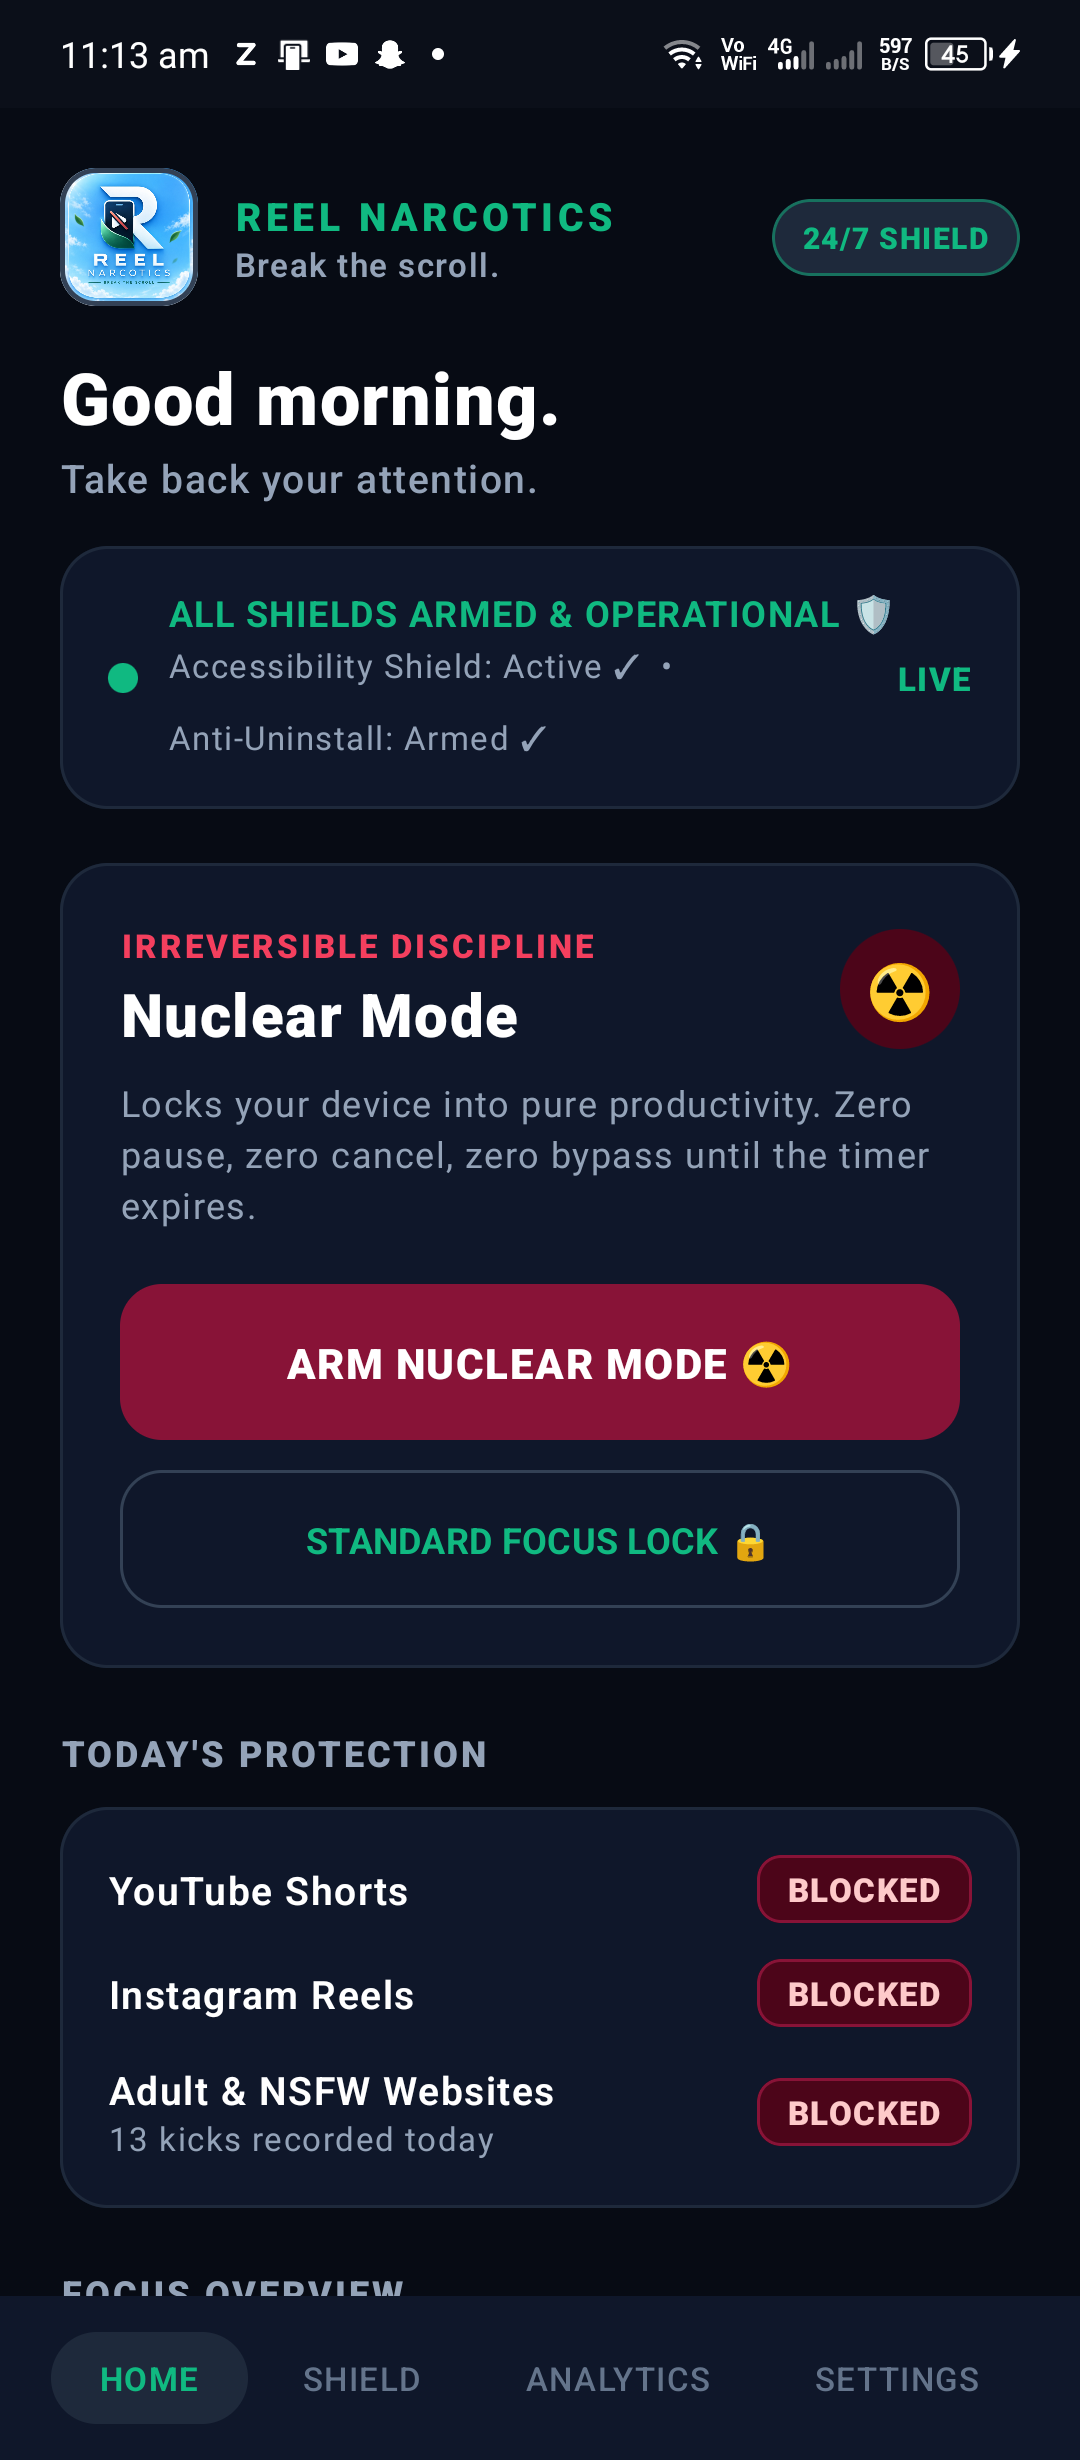
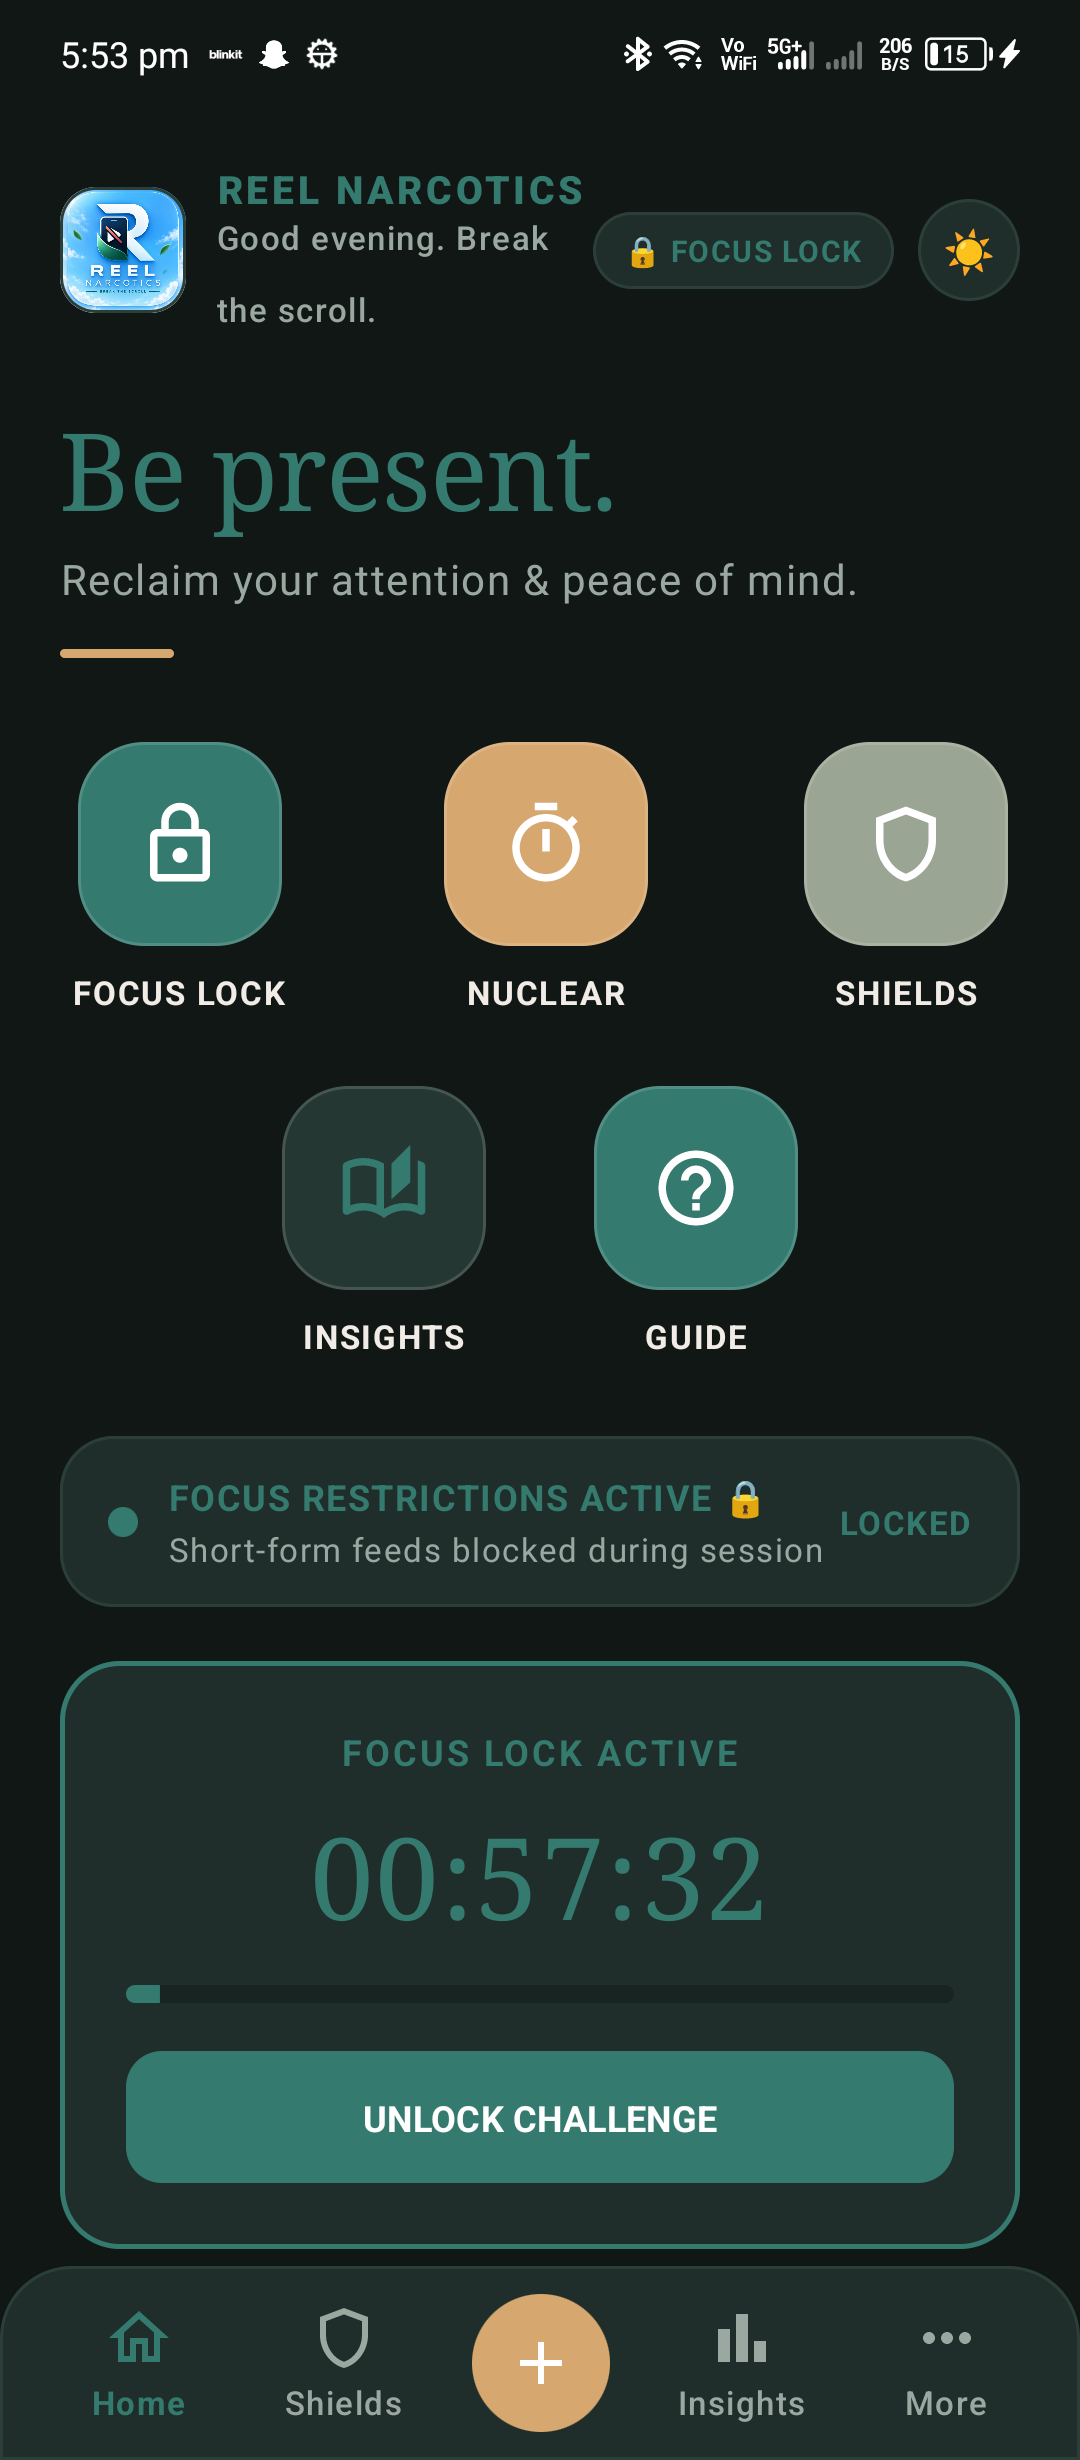
docs: add real device UI showcase screenshots and update README with Multi-OEM architecture

diff --git a/README.md b/README.md
@@ -1,90 +1,106 @@
-# Reel Narcotics ⚡
-> Production-grade, offline-first Android digital-wellbeing and dopamine-detox application.
-> Surgically intercepts addictive short-form feeds (YouTube Shorts, Instagram Reels, Snapchat Spotlight, Facebook Reels, TikTok) and Adult/Explicit content with absolute-timestamp focus locks, tamper resistance, device-admin deactivation prevention, anti-impulse friction, and an interactive mascot.
+# <p align="center"><img src="docs/assets/logo.png" width="110" height="110" alt="Reel Narcotics Logo" style="border-radius: 24px; box-shadow: 0 8px 24px rgba(16, 185, 129, 0.25);" /></p>
+
+<h1 align="center">REEL NARCOTICS ⚡</h1>
+
+<p align="center">
+  <strong>Surgical distraction blocker for Android engineered to destroy short-form dopamine loops.</strong><br>
+  <em>100% Offline • Zero Telemetry • Absolute-Timestamp Focus Locks • Multi-OEM Certified</em>
+</p>
+
+<p align="center">
+  <a href="https://reel-narcotics.vercel.app/"><img src="https://img.shields.io/badge/Live%20Website-Visit%20Site-10B981?style=for-the-badge&logo=googlechrome&logoColor=white" alt="Live Site"></a>
+  <a href="https://reel-narcotics.vercel.app/assets/ReelNarcotics-v2.4.2-Release.apk"><img src="https://img.shields.io/badge/Download-APK%20(v2.4.2%20Build%2016)-059669?style=for-the-badge&logo=android&logoColor=white" alt="Download APK"></a>
+  <img src="https://img.shields.io/badge/Android-8.0%20--%2015-141D32?style=for-the-badge&logo=android&logoColor=34D399" alt="Android Support">
+  <img src="https://img.shields.io/badge/Privacy-100%25%20Offline-070A11?style=for-the-badge&logo=shield&logoColor=white" alt="100% Offline">
+</p>
 
 ---
 
-## 🚀 Product Overview
+## 📱 Visual Showcase (v2.4.2 Production Build)
 
-Modern social platforms intentionally deploy variable reward loops and infinite vertical swipe mechanics to capture dopamine and attention. **Reel Narcotics** surgically intercepts the addictive algorithmic video feeds without locking you out of essential communications:
+Captured live on device running Android 13 with active Focus Lock:
 
-- **YouTube**: Blocks Shorts viewer, shelves, and tabs while preserving full access to long-form educational videos, tutorials, searches, channels, and playlists.
-- **Instagram**: Blocks Reels viewer, audio pages, and bottom navigation tabs while preserving direct messages (DMs), user profiles, and feed photos.
-- **Snapchat**: Blocks Spotlight vertical video feeds and infinite stories while keeping chats and camera capture accessible.
-- **Facebook**: Blocks Facebook Reels, while keeping groups, marketplace, and standard feeds available.
-- **TikTok**: Complete application lock during active focus sessions.
-- **Adult & Explicit Content Shield**: Multi-layered local domain blocklist (500+ domains), real-time browser address-bar analysis (Chrome, Firefox, Edge, Brave, Opera, Samsung Internet), and token-aware explicit text filtering.
-- **Tamper & Delete Protection**: Hardened Device Admin integration that detects and blocks unauthorized app uninstalls or attempts to deactivate administrative permissions during active Focus Locks or Nuclear Mode.
-- **Absolute-Timestamp Focus Lock**: Survives process death, battery saver kills, orientation changes, and device reboots. Never counts down in volatile memory.
-- **Anti-Impulse Friction Layer**: Requires intentional effort (5-second hold, mindful affirmation typing, mental arithmetic, or security PIN) to prevent impulsive unlocking.
-- **Original Mascot**: Mascot rendered via zero-dependency Jetpack Compose Canvas across 7 expressive states (HEALTHY, FOCUSED, ALERT, PROTECTED, BLOCKING, STREAK, RECOVERY).
+| 1. Focus Command Center | 2. Content Shields | 3. SQLite Focus Ledger | 4. Settings & Habit Loop |
+| :---: | :---: | :---: | :---: |
+| <img src="docs/assets/screenshot_home.png" width="220" alt="Home Dashboard" /> | <img src="docs/assets/screenshot_shields.png" width="220" alt="Content Shield" /> | <img src="docs/assets/screenshot_stats.png" width="220" alt="Focus Intelligence" /> | <img src="docs/assets/screenshot_settings.png" width="220" alt="Settings & Notifications" /> |
+| **Active Lock & Timer**<br>Live session countdown, real-time status badge & one-tap challenges. | **Surgical Enforcement**<br>Granular platform toggles: Shorts, Reels, Spotlight, Adult Web. | **On-Device Metrics**<br>Audit trail, 7-day interception graphs, zero cloud tracking. | **Daily Habit Engine**<br>Morning Focus Pledge, Evening Victory Digest & Night theme. |
+
+---
+
+## 🚀 Why Reel Narcotics?
+
+Modern social platforms intentionally deploy variable reward loops and infinite vertical swipe mechanics to hijack human attention. When you use traditional blockers that ban entire apps (like YouTube or Instagram), you lose important work tutorials, university lectures, and family messages. Users inevitably disable those blunt blockers and relapse.
+
+**Reel Narcotics takes a surgical approach**:
+- **YouTube**: Blocks Shorts viewer, shelves, and tabs while preserving full access to long tutorials, documentaries, searches, and playlists.
+- **Instagram**: Blocks Reels viewer, audio pages, and bottom tabs while preserving direct messages (DMs), user profiles, and feed photos.
+- **Snapchat**: Blocks Spotlight vertical video feeds and infinite stories while keeping camera capture and chats accessible.
+- **Facebook**: Blocks Facebook Reels while keeping groups, marketplace, and feeds accessible.
+- **Adult & Explicit Web Shield**: Local domain blocklist (500+ domains) with real-time address bar analysis across 14 major Android browsers (Chrome, Firefox, Brave, Edge, Opera, Samsung Internet, DuckDuckGo, etc.).
+
+---
+
+## 🛡 Multi-OEM Compatibility & Safety Certification (v2.4.2)
+
+Reel Narcotics has been engineered and certified to run cleanly without battery suspension or false positives across all major smartphone manufacturers:
+
+| Manufacturer | Custom OS | Engineering Solution Applied |
+| :--- | :--- | :--- |
+| **Xiaomi / POCO / Redmi** | MIUI / HyperOS | Direct `openMIUIAutostart()` intent, 10s countdown walkthrough, whitelisted MIUI calculator and contacts |
+| **Samsung** | One UI | Deep link to `InstalledAccessibilityServicesSettings`, One UI battery unrestrict flow, whitelisted clock & popup calculator |
+| **Vivo / iQOO** | Funtouch / OriginOS | Intent triggers for `PurviewTabActivity` & `ExcessivePowerManagerActivity`, whitelisted BBKClock |
+| **Oppo / Realme / OnePlus** | ColorOS / OxygenOS | Direct link to Startup Manager, whitelisted OnePlus/ColorOS dialers and alarm clocks |
+| **Infinix / Tecno / itel** | XOS / HiOS | Custom XOS flow (no phantom 3-dots), Phone Master autostart trigger, whitelisted Transsion dialer & tools |
+| **Google Pixel / Motorola** | Stock AOSP | Standard AOSP permission flows, native 3-dots unfreeze guide, battery optimization exemption |
+
+### ⚡ Universal 0ms Wildcard Immunity
+Emergency calls, alarms, and productivity tools are safeguarded at the root accessibility layer:
+```kotlin
+fun isEssentialUtility(pkg: String): Boolean {
+    return pkg.contains("dialer") || pkg.contains("incallui") || pkg.contains("telecom") ||
+           pkg.contains("calculator") || pkg.contains("deskclock") || pkg.contains("clockpackage") ||
+           pkg.contains("bbkclock") || pkg.contains("camera") || pkg.contains("gallery") ||
+           pkg.contains("alarmclock") || pkg.contains("emergency")
+}
+```
+If an event originates from any dialer or essential tool, Reel Narcotics exits in **0ms** without evaluating any blocking rule.
 
 ---
 
 ## 🔒 100% Offline • Zero Telemetry Guarantee
 
-- **No Internet Permission**: The app does **NOT** declare `android.permission.INTERNET` in its `AndroidManifest.xml`. It cannot make network requests even if compromised.
-- **Zero Cloud Services**: No Firebase, no AWS, no Supabase, no third-party analytics, trackers, or advertising SDKs.
-- **Local Relational Database**: All block events, streak tracking, and statistics are stored locally in SQLite (`zenith_focus.db`).
+- **Zero Network Traffic**: All detection, heuristic analysis, and blocking logic execute strictly on-device.
+- **Zero Cloud Services**: No Firebase, no AWS, no Supabase, no third-party analytics, and zero advertising SDKs.
+- **Local Relational Database**: All statistics, streak counters, and block events are stored in a local SQLite database (`zenith_focus.db`).
 
 ---
 
-## 📱 Supported Android Versions
+## 🔔 Daily Habit Loop & Bedtime Sleep Shield
 
-- **Minimum SDK**: Android 7.0 (API 24 - Nougat)
-- **Target SDK**: Android 13.0 (API 33 - Tiramisu)
-- **Compile SDK**: Android 14.0 (API 34 - UpsideDownCake)
-- **Tested Architectures**: `arm64-v8a`, `armeabi-v7a`, `x86_64`, `x86`
+- **🌅 Morning Focus Pledge (8:00 AM)**: Daily morning intention alert before scrolling starts.
+- **🔥 Evening Victory Digest (9:00 PM)**: Summary celebrating total distractions blocked, minutes saved, and active focus streak.
+- **🌙 Bedtime Sleep Shield (11:00 PM – 6:30 AM)**: Automatic overnight feed barrier.
+- **Android 13+ Notification Shield**: Full `POST_NOTIFICATIONS` runtime declaration ensures alerts are never silently dropped by modern Android systems.
 
 ---
 
 ## 🛠 Build & Installation
 
-### Prerequisites
-- JDK 17
-- Android SDK Platform 33 / 34
-- Android Build Tools 33.0.1+
-
-### Build Release APK
+### Build Signed Release APK
 ```bash
 ./gradlew assembleRelease --no-daemon
 ```
-The output APK is generated at:
+The output APK will be generated at:
 `app/build/outputs/apk/release/app-release.apk`
 
-### Install to Android Device via ADB
+### Install via ADB
 ```bash
-adb install -r app/build/outputs/apk/release/app-release.apk
+adb install -r -d -g app/build/outputs/apk/release/app-release.apk
 ```
 
 ---
 
-## 🛡 Initial Setup & Permissions
+## 📄 License & Disclaimer
 
-1. **Launch Reel Narcotics**: Open the app and follow the onboarding flow.
-2. **Enable Accessibility Service**:
-   - Navigate to Android **Settings** > **Accessibility** > **Downloaded Apps** / **Installed Services**.
-   - Tap **Reel Narcotics Shield** and toggle **ON**.
-3. **Grant Floating Overlay Permission**:
-   - Allows displaying the smooth floating block screen directly over short-form feeds (`TYPE_APPLICATION_OVERLAY`).
-4. **Enable Delete & Tamper Protection (Optional)**:
-   - Activates Device Admin privileges to prevent premature app uninstallation or unauthorized service disabling during active focus sessions.
-5. **Choose Protected Platforms**:
-   - In the **Shield** tab, select YouTube Shorts, Instagram Reels, Snapchat Spotlight, Adult Websites, etc.
-6. **Activate a Focus Lock**:
-   - Choose a preset (15m, 1h, 6h, 1 day, 3 days, 7 days) or set a custom duration / "Until Tomorrow".
-
----
-
-## 📚 Technical Documentation
-
-- [ARCHITECTURE.md](ARCHITECTURE.md) - Clean architecture, data flow, reactive state machine, and persistence layer.
-- [DETECTION_ENGINE.md](DETECTION_ENGINE.md) - Multi-signal heuristics, node parsing, confidence weights, and rule versioning.
-- [PRIVACY.md](PRIVACY.md) - Cryptographic verification of zero network access and offline safety guarantees.
-- [TESTING.md](TESTING.md) - Unit test suite, detector test matrix, and verification instructions.
-
----
-
-## ⚖ License & Disclaimer
-
+Released under the [Apache 2.0 License](LICENSE).  
 Reel Narcotics is designed for personal digital wellbeing and discipline enhancement. All platform names and trademarks belong to their respective owners.
